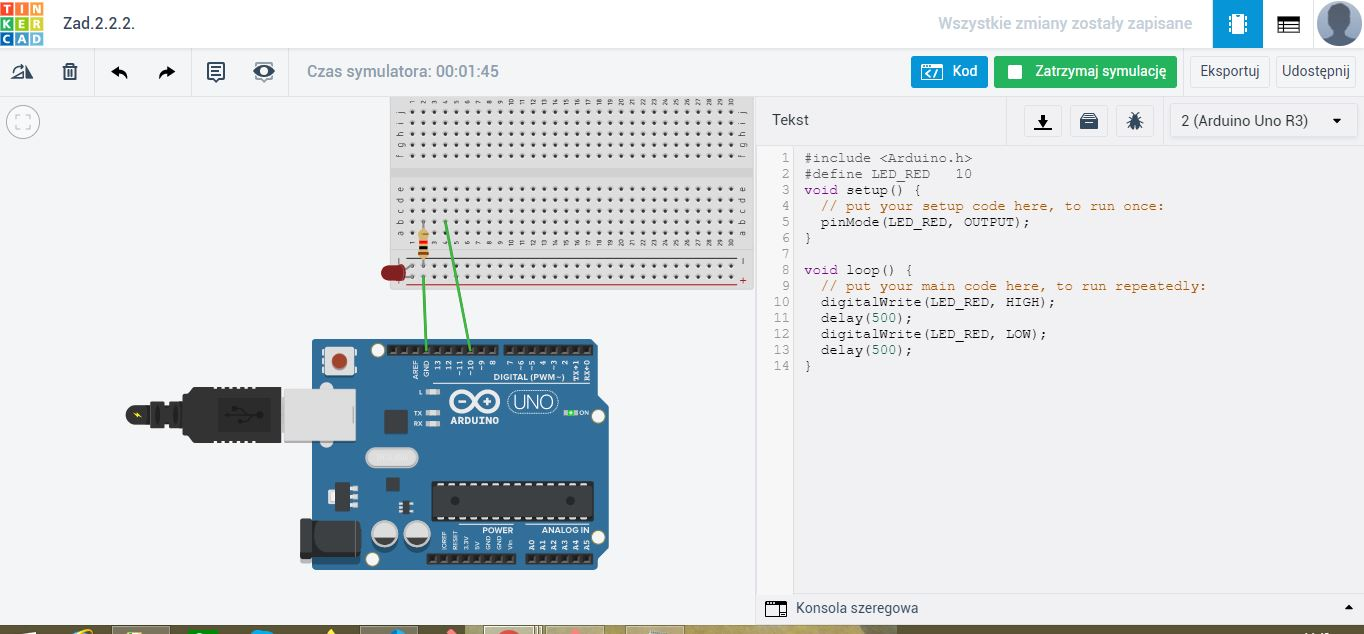
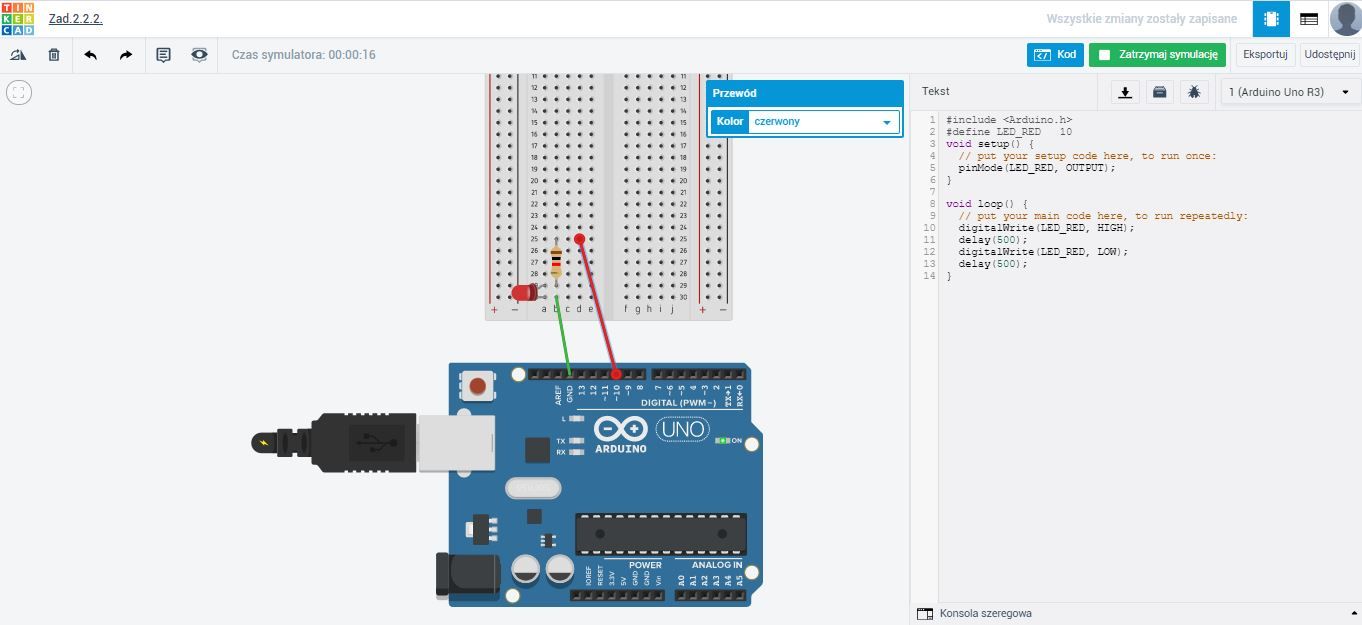
Poprawiono zadanie 2.2.2.

Changed region(s): [[0.0, 0.0, 1.0, 1.0]]

diff --git a/Zadanie 2.2.3/src/main.cpp b/Zadanie 2.2.3/src/main.cpp
@@ -1,0 +1,40 @@
+#include <Arduino.h>
+#define LED_RED  10
+
+//sposób kodowania
+#define M_KROPKA_T 200
+#define M_KRESKA_T 3 * M_KROPKA_T
+#define M_PAUZA_T 3 * M_KROPKA_T
+#define M_SPACJA_T 7 * M_KROPKA_T
+void setup() {
+  // put your setup code here, to run once:
+  pinMode(LED_RED, OUTPUT);
+}
+
+void loop() 
+{
+  for (int i = 0; i < 3; i++ )
+  {
+    digitalWrite(LED_RED, HIGH);
+    delay(M_KROPKA_T);
+    digitalWrite(LED_RED, LOW);
+    delay(M_PAUZA_T);
+  }
+
+  for (int i = 0; i < 3; i++ )
+  {
+    digitalWrite(LED_RED, HIGH);
+    delay(M_KRESKA_T);
+    digitalWrite(LED_RED, LOW);
+    delay(M_PAUZA_T);
+  }
+  for (int i = 0; i < 3; i++ )
+  {
+    digitalWrite(LED_RED, HIGH);
+    delay(M_KROPKA_T);
+    digitalWrite(LED_RED, LOW);
+    delay(M_PAUZA_T);
+  }
+  delay(M_SPACJA_T);
+  // put your main code here, to run repeatedly:
+}

diff --git a/README.md b/README.md
@@ -17,7 +17,7 @@ Odpowiedź:  Dioda świeci
 
 ## Zadanie 2-2-2:
 Pytanie:    *Czy zamienienie kolejności podłączenia diody LED i rezystora ma znaczenie?*  
-Odpowiedź:  nie ma znaczenia
+Odpowiedź:  nie ma znaczeniaf
 
 ## Zadanie 2-2-3:
 Pytanie:    *Czy każdy rodzaj pętli jest wymienny (zawsze można zastąpić jedną konstrukcję drugą)?*  
